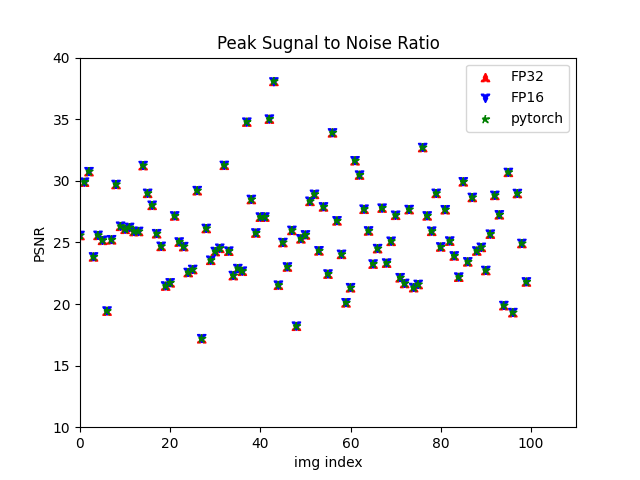
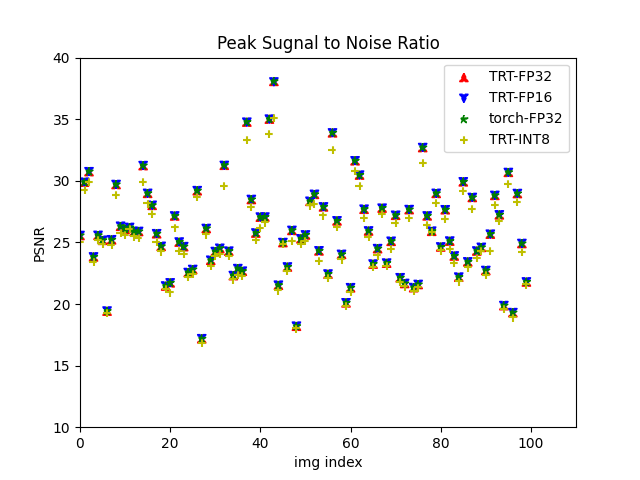
add INT8 test outcome

diff --git a/RealESRGAN_TRT/script/plot_inferTime.py b/RealESRGAN_TRT/script/plot_inferTime.py
@@ -4,9 +4,11 @@ import matplotlib.pyplot as plt
 x1, y1 = [], []  # FP32
 x2, y2 = [], []  # FP16
 x3, y3 = [], []  # Pytorch
+x4, y4 = [], []  # int8
 str1 = '/home/ubuntu/Music/Real-ESRGAN_py/TXT_File/FP32/time.txt'
 str2 = '/home/ubuntu/Music/Real-ESRGAN_py/TXT_File/FP16/time.txt'
 str3 = '/home/ubuntu/Music/Real-ESRGAN_py/TXT_File/pytorch/time.txt'
+str4 = '/home/ubuntu/Music/Real-ESRGAN_py/TXT_File/int8/time.txt'
 
 with open(str1, 'r+') as f1:
     content1 = f1.read()
@@ -33,24 +35,33 @@ print(len(a3))
 for i in range(len(a3) - 1):
     y3.append(float(a3[i]))
 
+with open(str4, 'r+') as f4:
+    content4 = f4.read()
+
+a4 = content4.split('\n')
+print(len(a4))
+for i in range(len(a4) - 1):
+    y4.append(float(a4[i]))
+
 fig = plt.figure()
-ax1=plt.subplot(2,2,1)
-plt.plot(x1, y1, label='FP32', color='r', marker='^', linestyle='dashed')
-# plt.axis([0, 110, 0.2, 2])
-plt.legend()
-
-ax2=plt.subplot(2,2,2)
-plt.plot(x1, y2, label='FP16', color='b', marker='v', linestyle='dashed')
-plt.legend()
-
-ax3=plt.subplot(2,2,3)
-plt.plot(x1, y3, label='pytorch', color='g', marker='*', linestyle='dashed')
-plt.legend()
-
-ax2=plt.subplot(2,2,4)
-plt.plot(x1, y1, label='FP32', color='r', marker='^', linestyle='dashed')
-plt.plot(x1, y2, label='FP16', color='b', marker='v', linestyle='dashed')
-plt.plot(x1, y3, label='pytorch', color='g', marker='*', linestyle='dashed')
+# ax1=plt.subplot(2,2,1)
+# plt.plot(x1, y1, label='FP32 and pytorch', color='r', marker='^', linestyle='dashed')
+# # plt.axis([0, 110, 0.2, 2])
+# plt.legend()
+#
+# ax2=plt.subplot(2,2,2)
+# plt.plot(x1, y2, label='FP16', color='b', marker='v', linestyle='dashed')
+# plt.legend()
+#
+# ax3=plt.subplot(2,2,3)
+# plt.plot(x1, y3, label='pytorch', color='g', marker='*', linestyle='dashed')
+# plt.legend()
+#
+# ax2=plt.subplot(2,2,4)
+plt.plot(x1, y1, label='TRT-FP32', color='r', marker='^', linestyle='dashed')
+plt.plot(x1, y2, label='TRT-FP16', color='b', marker='v', linestyle='dashed')
+plt.plot(x1, y3, label='pytorch-FP32', color='g', marker='*', linestyle='dashed')
+plt.plot(x1, y4, label='TRT-INT8', color='y', marker='+', linestyle='dashed')
 plt.legend()
 
 plt.axis([0, 110, 0.2, 2])
@@ -59,4 +70,4 @@ plt.xlabel('img index')
 plt.ylabel('time/s')
 plt.title('img inference time')
 plt.show()
-fig.savefig('inferTime.png')
+fig.savefig('inferTime_one.png')

diff --git a/RealESRGAN_TRT/script/plot_PSNR.py b/RealESRGAN_TRT/script/plot_PSNR.py
@@ -4,9 +4,11 @@ import matplotlib.pyplot as plt
 x1, y1 = [], []  # FP32
 x2, y2 = [], []  # FP16
 x3, y3 = [], []  # Pytorch
+x4, y4 = [], [] # int8
 str1 = '/home/ubuntu/Music/Real-ESRGAN_py/TXT_File/FP32/psnr.txt'
 str2 = '/home/ubuntu/Music/Real-ESRGAN_py/TXT_File/FP16/psnr.txt'
 str3 = '/home/ubuntu/Music/Real-ESRGAN_py/TXT_File/pytorch/psnr.txt'
+str4 = '/home/ubuntu/Music/Real-ESRGAN_py/TXT_File/int8/psnr.txt'
 
 with open(str1, 'r+') as f1:
     content1 = f1.read()
@@ -33,10 +35,19 @@ print(len(a3))
 for i in range(len(a3) - 1):
     y3.append(float(a3[i]))
 
+with open(str4, 'r+') as f4:
+    content4 = f4.read()
+
+a4 = content4.split('\n')
+print(len(a4))
+for i in range(len(a4) - 1):
+    y4.append(float(a4[i]))
+
 fig = plt.figure()
-plt.scatter(x1, y1, label='FP32', color='r', marker='^', linestyle='dashed')
-plt.scatter(x1, y2, label='FP16', color='b', marker='v', linestyle='dashed')
-plt.scatter(x1, y3, label='pytorch', color='g', marker='*', linestyle='dashed')
+plt.scatter(x1, y1, label='TRT-FP32', color='r', marker='^', linestyle='dashed')
+plt.scatter(x1, y2, label='TRT-FP16', color='b', marker='v', linestyle='dashed')
+plt.scatter(x1, y3, label='torch-FP32', color='g', marker='*', linestyle='dashed')
+plt.scatter(x1, y4, label='TRT-INT8', color='y', marker='+', linestyle='dashed')
 
 plt.legend()
 

diff --git a/RealESRGAN_TRT/script/plot_ssim.py b/RealESRGAN_TRT/script/plot_ssim.py
@@ -4,9 +4,11 @@ import matplotlib.pyplot as plt
 x1, y1 = [], []  # FP32
 x2, y2 = [], []  # FP16
 x3, y3 = [], []  # Pytorch
+x4, y4 = [], [] # int8
 str1 = '/home/ubuntu/Music/Real-ESRGAN_py/TXT_File/FP32/ssim.txt'
 str2 = '/home/ubuntu/Music/Real-ESRGAN_py/TXT_File/FP16/ssim.txt'
 str3 = '/home/ubuntu/Music/Real-ESRGAN_py/TXT_File/pytorch/ssim.txt'
+str4 = '/home/ubuntu/Music/Real-ESRGAN_py/TXT_File/int8/ssim.txt'
 
 with open(str1, 'r+') as f1:
     content1 = f1.read()
@@ -33,10 +35,19 @@ print(len(a3))
 for i in range(len(a3) - 1):
     y3.append(float(a3[i]))
 
+with open(str4, 'r+') as f4:
+    content4 = f4.read()
+
+a4 = content4.split('\n')
+print(len(a4))
+for i in range(len(a4) - 1):
+    y4.append(float(a4[i]))
+
 fig = plt.figure()
-plt.scatter(x1, y1, label='FP32', color='r', marker='^', linestyle='dashed')
-plt.scatter(x1, y2, label='FP16', color='b', marker='v', linestyle='dashed')
-plt.scatter(x1, y3, label='pytorch', color='g', marker='*', linestyle='dashed')
+plt.scatter(x1, y1, label='TRT-FP32', color='r', marker='^', linestyle='dashed')
+plt.scatter(x1, y2, label='TRT-FP16', color='b', marker='v', linestyle='dashed')
+plt.scatter(x1, y3, label='torch-FP32', color='g', marker='*', linestyle='dashed')
+plt.scatter(x1, y4, label='TRT-INT8', color='y', marker='+', linestyle='dashed')
 
 plt.legend()
 
